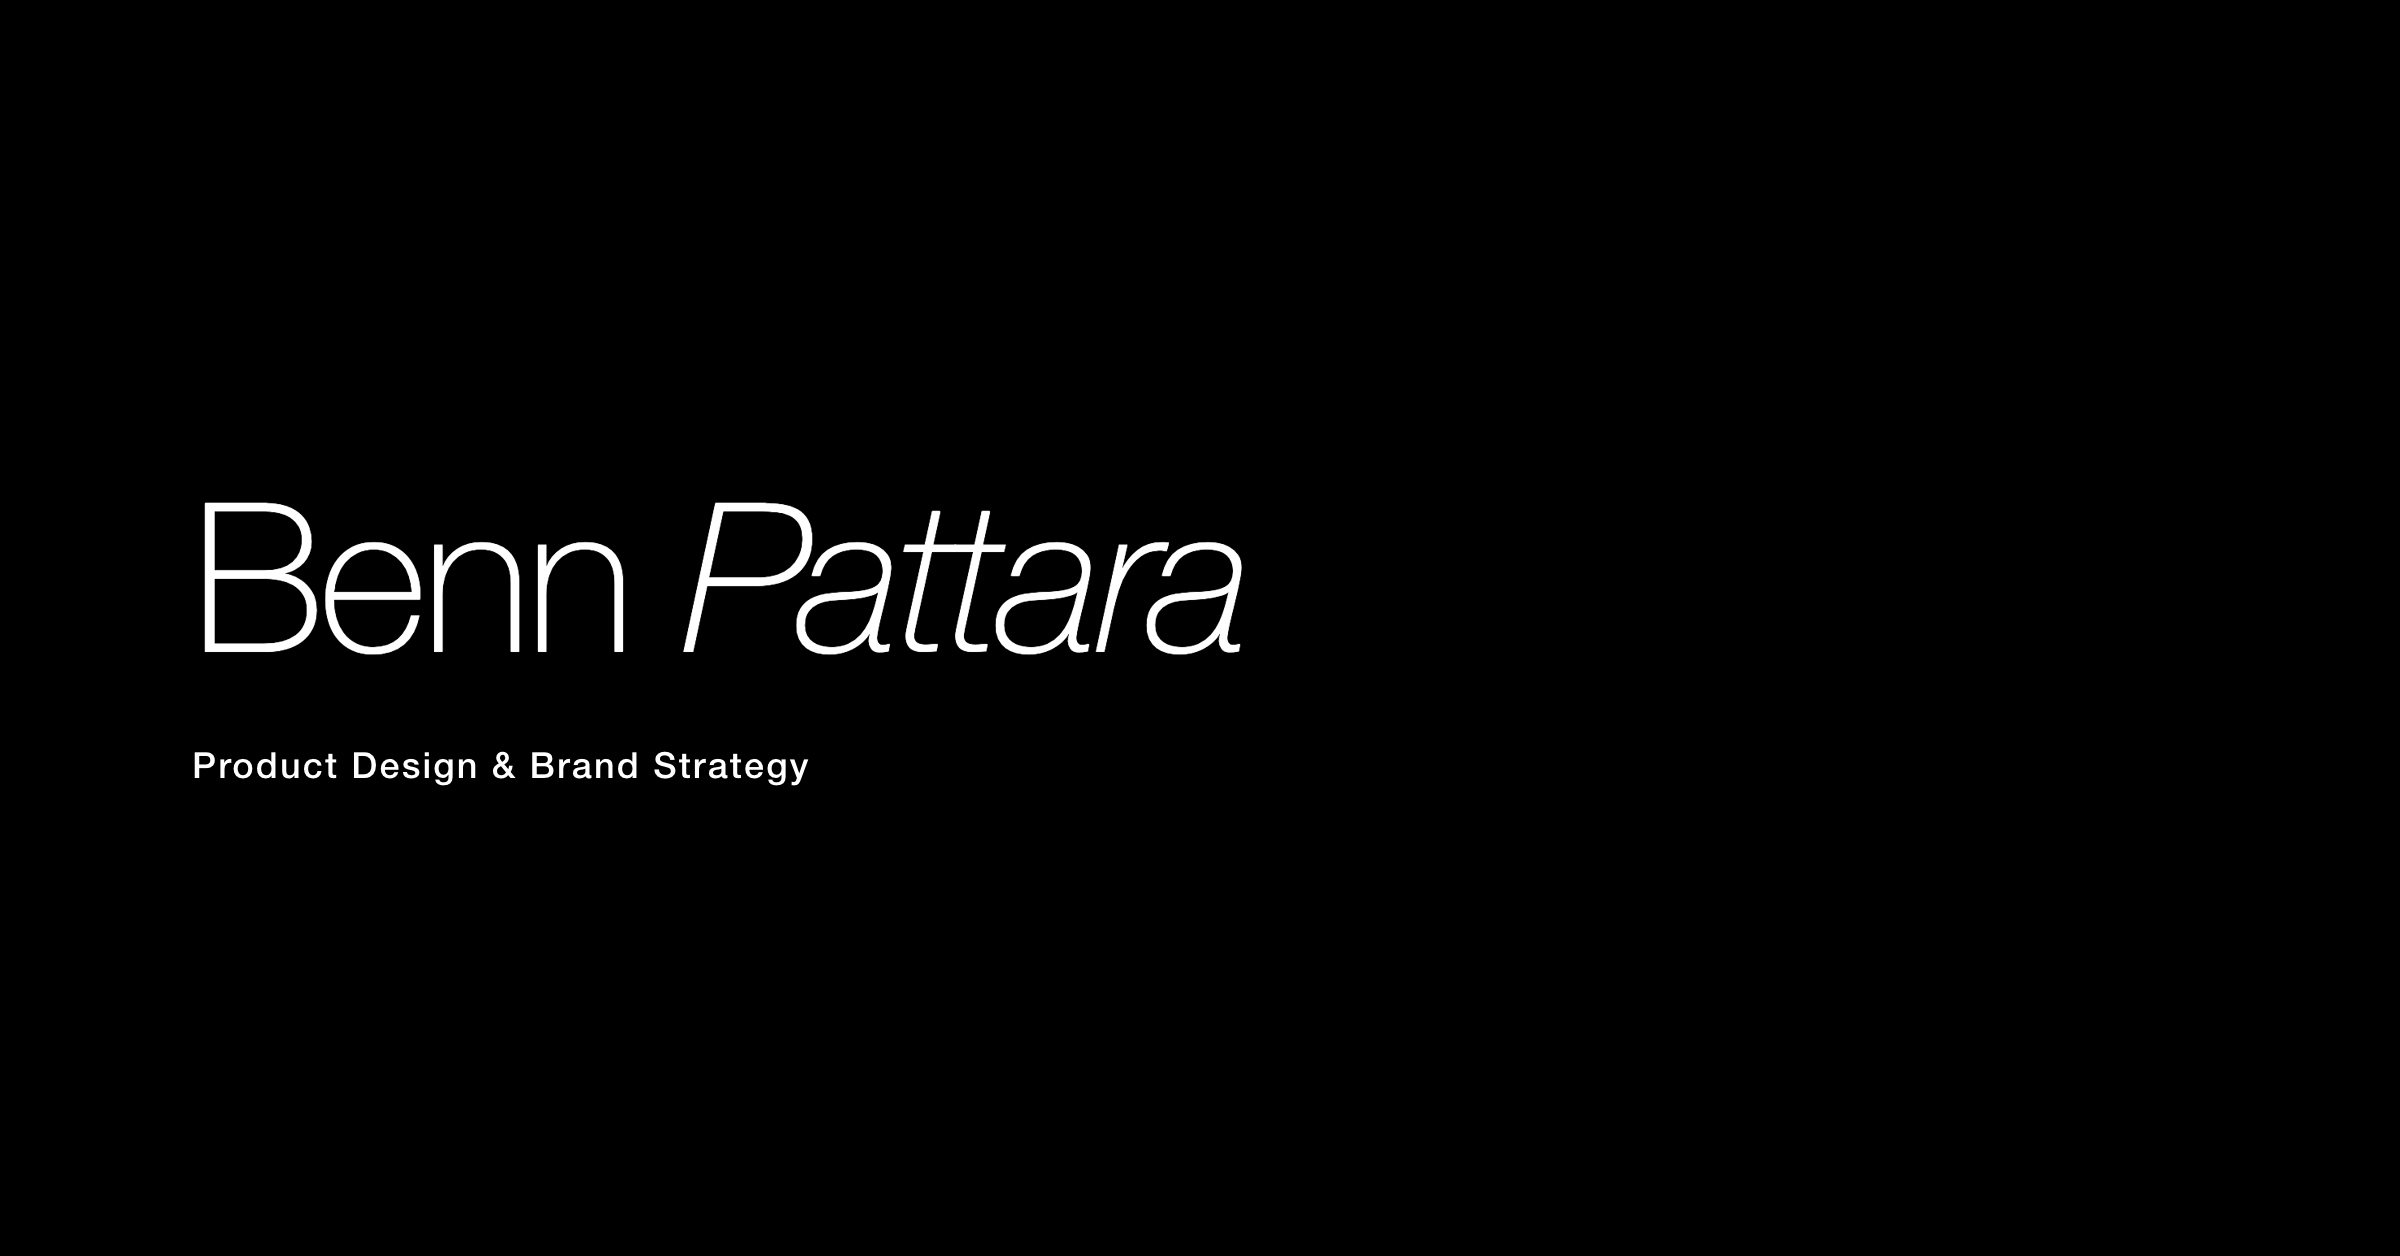
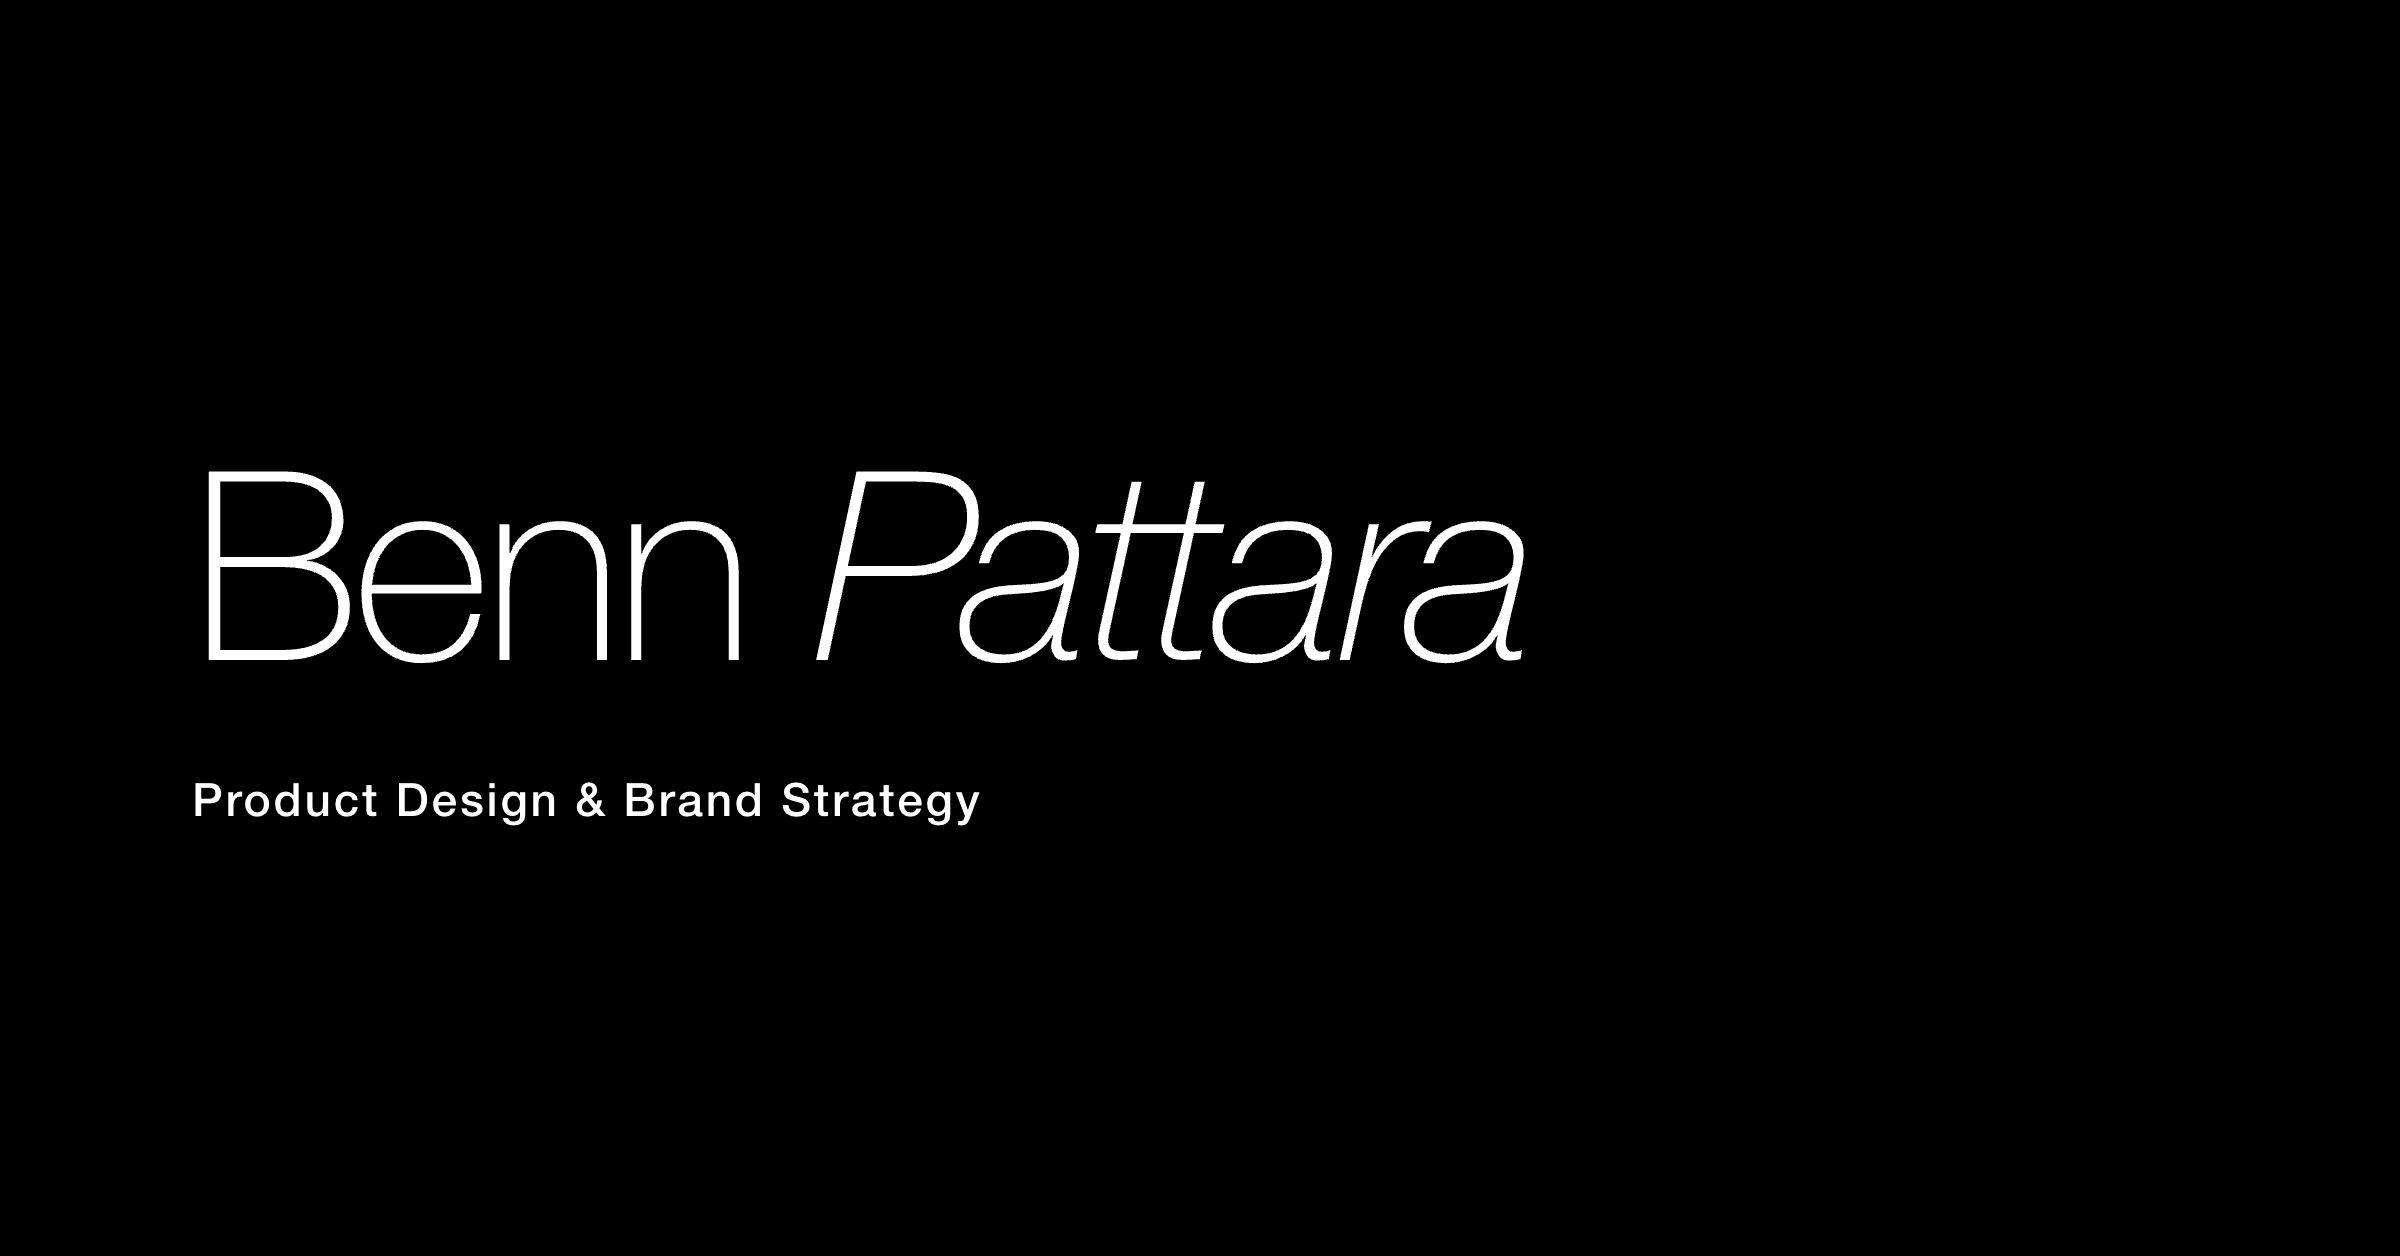
OG image: larger proportional type (name + role); cache v7
Made-with: Cursor

Changed region(s): [[0.0625, 0.3726, 0.6562, 0.5279], [0.0625, 0.59, 0.4062, 0.6521]]

diff --git a/src/app/layout.tsx b/src/app/layout.tsx
@@ -4,7 +4,7 @@ import Script from 'next/script';
 // import MaintenanceNotice from '@/components/MaintenanceNotice'; // uncomment to enable maintenance mode
 
 /** Bump when replacing `public/og/home.png` so social crawlers refetch (LinkedIn caches aggressively). */
-const OG_HOME_VERSION = '6';
+const OG_HOME_VERSION = '7';
 
 /** GA4 stream “Benn Portfolio” — public ID; override with NEXT_PUBLIC_GA_MEASUREMENT_ID. */
 const DEFAULT_GA_MEASUREMENT_ID = 'G-1S5D7FGYE8';
